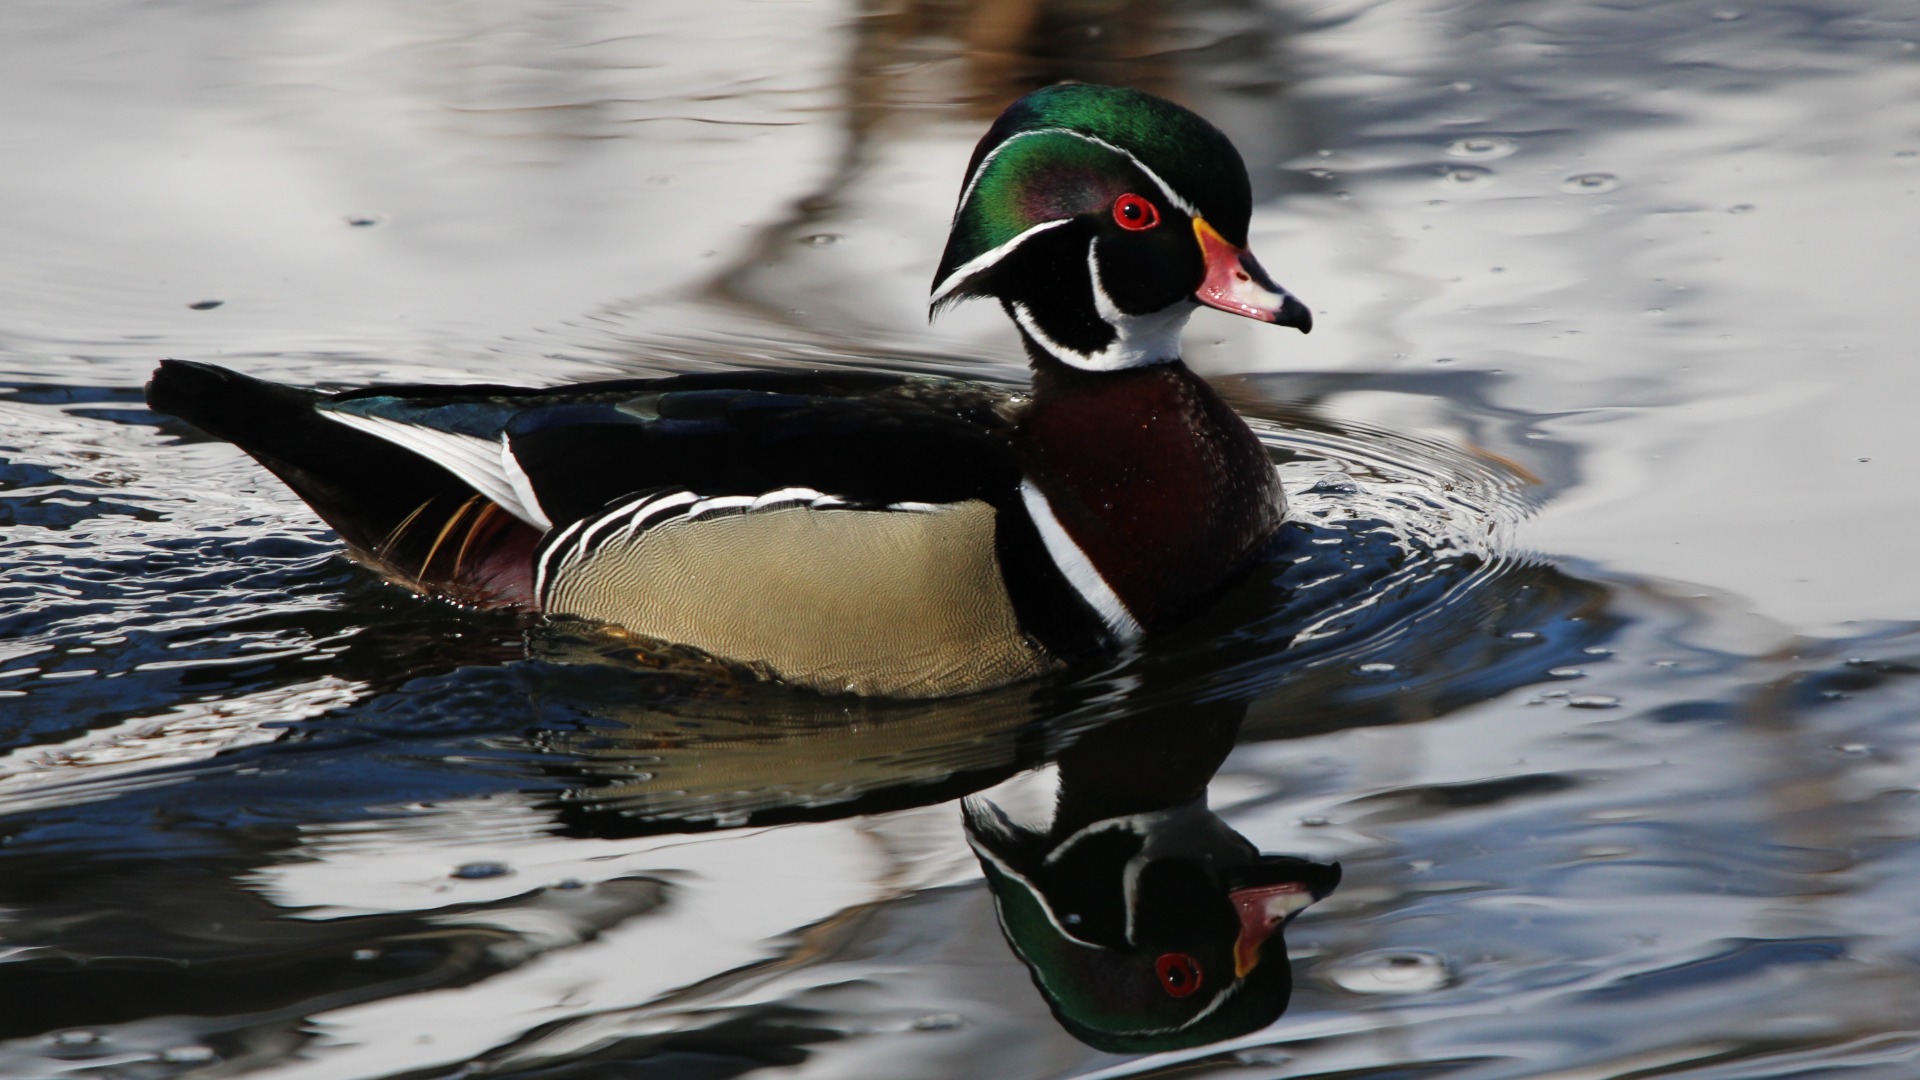
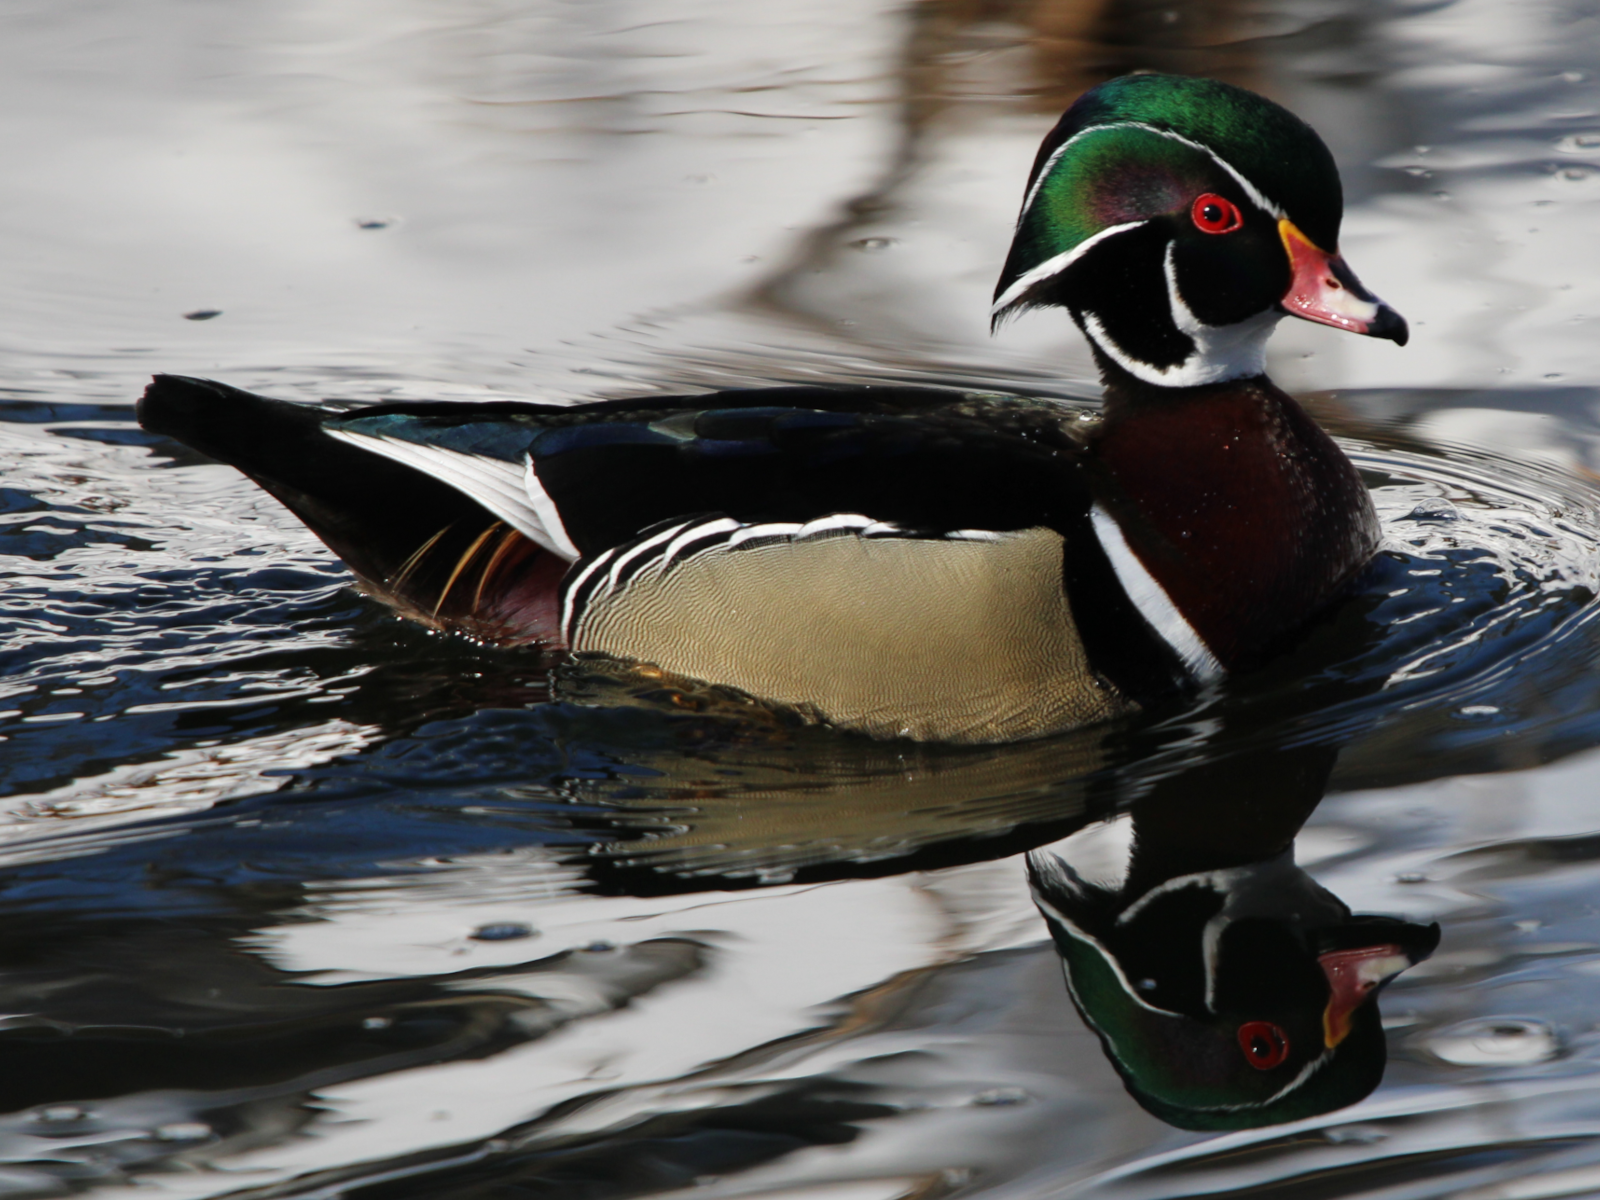
Some changes
- Added Latin names to photos
- Added some new photos
- Removed an old bad photo and reworded descriptions here and there
- Recrop some images
- Updated the bio

diff --git a/src/galleries/image-gallery/ImageGallery.js b/src/galleries/image-gallery/ImageGallery.js
@@ -25,50 +25,71 @@ const categories = ["Birds and nature", "Mathematical visualization", "Other"]
 
 const images = [
     {
+        title: "Orb Weaver",
+        description: <>A yellow garden spider (<i>Argiope aurantia</i>) seen at Rea Farm in Cape May, NJ.</>,
+        filename: "orbweaver.png",
+        date: "27 Sep 2025",
+        category: 0
+    },
+    {
+        title: "Sweat Bee",
+        description: <>A sweat bee (<i>Augochlora</i> spp.) seen at Rea Farm in Cape May, NJ.</>,
+        filename: "sweatbee.png",
+        date: "27 Sep 2025",
+        category: 0
+    },
+    {
+        title: "Skipper",
+        description: <>A Huron skipper (<i>Atalopedes huron</i>) seen in my backyard in northern NJ.</>,
+        filename: "skipper.png",
+        date: "3 Sep 2025",
+        category: 0
+    },
+    {
         title: "Common Buckeye",
-        description: "My first non-bird photo on here. A picture of a common buckeye butterfly I took at the Pole Farm in Mercer County, NJ.",
+        description: <>A common buckeye butterfly (<i>Junonia coenia</i>) seen at the Pole Farm in Mercer County, NJ.</>,
         filename: "buckeye_butterfly.png",
-        date: "24 August 2025",
+        date: "24 Aug 2025",
         category: 0
     },
     {
         title: "Common Yellowthroat",
-        description: "A picture of a perched common yellowthroat, taken at Troy Meadows in Parsippany, NJ.",
+        description: <>A perched common yellowthroat (<i>Geothlypis trichas</i>), seen at Troy Meadows in Parsippany, NJ.</>,
         filename: "yellowthroat.png",
         date: "25 May 2025",
         category: 0
     },
     {
         title: "Forster's Tern",
-        description: "A picture of a Forster's tern in flight, taken at Forsythe NWR near Galloway, NJ.",
+        description:  <>A Forster's tern (<i>Sterna forsteri</i>) in flight, seen at Forsythe NWR near Galloway, NJ.</>,
         filename: "tern.png",
         date: "23 Apr 2025",
         category: 0
     },
     {
         title: "Violet-green Swallow",
-        description: "A picture I took of an oddly cooperative violet-green swallow near La Ventana, Baja California Sur.",
+        description: <>An oddly cooperative violet-green swallow (<i>Tachycineta thalassina</i>) near La Ventana, Baja California Sur.</>,
         filename: "violetgreen.png",
         date: "22 Feb 2025",
         category: 0
     },
     {
         title: "California Quail",
-        description: "A picture I took of a California quail perched on a palm tree in La Ventana, Baja California Sur, Mexico.",
+        description: <>A California quail (<i>Callipepla californica</i>) perched on a palm tree in La Ventana, Baja California Sur, Mexico.</>,
         filename: "califquail.png",
         date: "22 Feb 2025",
         category: 0
     },
     {
         title: "Wood Duck",
-        description: "A rather confused wood duck, seen at the Potash Lake Recreational Area in Oakland, NJ.",
+        description: <>A rather confused wood duck (<i>Aix sponsa</i>), seen at the Potash Lake Recreational Area in Oakland, NJ.</>,
         filename: "woodduck.png",
         date: "26 Jan 2025",
         category: 0
     }, 
     {
         title: "Harlequin Duck",
-        description: "A harlequin duck, photographed at Barnegat Light in NJ.",
+        description: <>A male harlequin duck (<i>Histrionicus histrionicus</i>), photographed at Barnegat Light in NJ.</>,
         filename: "harlequinduck.png",
         date: "2 Jan 2025",
         category: 0
@@ -102,7 +123,7 @@ const images = [
     },
     {
         title: "Vermillion Flycatcher",
-        description: "A vermillion flycatcher, photographed during a vacation to the Quindio region of Colombia.",
+        description: <>A vermillion flycatcher (<i>Pyrocephalus obscurus</i>), photographed during a vacation to the Quindio region of Colombia.</>,
         filename: "vermillionflycatcher.png",
         date: "1 Sep 2024",
         category: 0
@@ -116,7 +137,7 @@ const images = [
     },
     {
         title: "Tree Swallow",
-        description: "A tree swallow on a branch, photographed at the Pole Farm in Mercer County, NJ.",
+        description: <>A tree swallow (<i>Tachycineta bicolor</i>) on a branch, photographed at the Pole Farm in Mercer County, NJ.</>,
         filename: "treeswallow.png",
         date: "30 Jun 2024",
         category: 0
@@ -137,42 +158,42 @@ const images = [
     },
     {
         title: "Chuck-will's-widow",
-        description: "A female chuck-will's-widow sitting on her nest. Photographed at Fort De Soto, FL.",
+        description: <>A female chuck-will's-widow (<i>Antrostomus caroliniensis</i>) sitting on her nest. Photographed at Fort De Soto, FL.</>,
         filename: "chuckwillswidow.png",
         date: "27 Apr 2024",
         category: 0
     },
     {
         title: "Purple Gallinule",
-        description: "A purple gallinule, photographed in Sarasota, FL while on vacation.",
+        description: <>A purple gallinule (<i>Porphyrio martinica</i>), photographed in Sarasota, FL while on vacation.</>,
         filename: "purplegallinule.png",
         date: "25 Apr 2024",
         category: 0
     },
     {
         title: "Oystercatcher",
-        description: "An American oystercatcher in front of a wave. I took this picture at Sandy Hook NWR in New Jersey.",
+        description: <>An American oystercatcher (<i>Haematopus palliatus</i>) in front of a wave, seen at Sandy Hook NWR in New Jersey.</>,
         filename: "oystercatcher.png",
         date: "21 Apr 2024",
         category: 0
     },
     {
         title: "Monk Parakeets",
-        description: <>One of the many nests of feral monk parakeets who have made their home in Edgewater, NJ.</>,
+        description: <>One of the many nests of feral monk parakeets (<i>Myiopsitta monachus</i>) who have made their home in Edgewater, NJ.</>,
         filename: "parakeets.png",
         date: "9 Apr 2024",
         category: 0
     },
     {
         title: "Osprey",
-        description: <>An osprey in flight over the pond at Garret Mountain Park near Patterson, NJ.</>,
+        description: <>An osprey (<i>Pandion haliaetus</i>) in flight over the pond at Garret Mountain Park near Patterson, NJ.</>,
         filename: "osprey.png",
         date: "7 Apr 2024",
         category: 0
     },
     {
         title: "Brown Creeper",
-        description: <>A brown creeper climbing a tree, sighted near Garret Mountain Park near Patterson, NJ.</>,
+        description: <>A brown creeper (<i>Certhia americana</i>) climbing a tree, sighted near Garret Mountain Park near Patterson, NJ.</>,
         filename: "creeper.png",
         date: "7 Apr 2024",
         category: 0
@@ -236,21 +257,21 @@ const images = [
     },
     {
         title: "Sanderling",
-        description: "A picture I took of a sanderling at Barnegat Light State Park in New Jersey.",
+        description: <>A sanderling (<i>Calidris alba</i>) at Barnegat Light State Park in New Jersey.</>,
         filename: "sanderling.png",
         date: "2 Feb 2024",
         category: 0
     },
     {
         title: "Red-breasted Merganser",
-        description: "A picture I took of a red-breasted merganser male showing his crest at Barnegat Light State Park in New Jersey.",
+        description: <>A red-breasted merganser (<i>Mergus serrator</i>) male showing his crest at Barnegat Light State Park in New Jersey.</>,
         filename: "merganser.png",
         date: "2 Feb 2024",
         category: 0
     },
     {
         title: "Long-tailed Duck Male",
-        description: "A picture of one of my favorite sea ducks: a long-tailed duck male, taken by me at Barnegat Light State Park in New Jersey.",
+        description: <>One of my favorite sea ducks: a long-tailed duck (<i>Clangula hyemalis</i>) male, seen at Barnegat Light State Park in New Jersey.</>,
         filename: "longtail2.png",
         date: "2 Feb 2024",
         category: 0
@@ -296,13 +317,6 @@ const images = [
         filename: "newtonfractal1.png",
         date: "8 Jan 2024",
         category: 1
-    },
-    {
-        title: "Loon in Flight",
-        description: "A picture of a red-throated loon starting to fly. I took this picture at Sandy Hook NWR in New Jersey.",
-        filename: "redthroatedloon.png",
-        date: "31 Dec 2023",
-        category: 0
     },
     {
         title: "Islamic-style Hyperbolic Tiling",
@@ -404,7 +418,7 @@ const images = [
     },
     {
         title: "Coal Dumper",
-        description: "A picture I took of the abandoned McMyler coal dumper in Port Reading, NJ.",
+        description: "The abandoned McMyler coal dumper in Port Reading, NJ.",
         filename: "coaldumper.jpg",
         date: "30 Aug 2023",
         category: 2
@@ -425,7 +439,7 @@ const images = [
     },
     {
         title: "Burrowing Owl",
-        description: "I took this picture of a burrowing owl (Athene cunicularia) at a baseball field in Cape Coral, FL.",
+        description: <>I took this picture of a burrowing owl (<i>Athene cunicularia</i>) at a baseball field in Cape Coral, FL.</>,
         filename: "burrowingowl.jpg",
         date: "22 Nov 2021",
         category: 0
@@ -470,6 +484,7 @@ function ImageGallery() {
         // Then sort images into those categories
         let imgData, i = 0;
         for (let img of images) {
+            console.log(img);
             let localPath = require("./pics/" + img.filename);
             imgData = {...img, localPath, idx: i};
             data[img.category].push(imgData);

diff --git a/src/main-pages/about/AboutPage.js b/src/main-pages/about/AboutPage.js
@@ -25,7 +25,7 @@ function AboutPage() {
                 <hr />
 
                 <p>
-                    Hello. I&apos;m Zenzicubic, and I&apos;m a VTuber. I make YouTube videos about my passions: mainly practical chemistry and math (with a focus on aesthetically pleasing concepts, especially in group theory, dynamical systems, fractals, and geometry), but also whatever happens to interest me at a given moment. I&apos;ve been on YouTube since 2020, and I&apos;ve been a VTuber since January 2022. I film experiments in my home chemistry lab, and make animated math videos and explainers &#224; la 3Blue1Brown.
+                    Hello. I&apos;m Zenzicubic, and I make YouTube videos about my passions: mainly practical chemistry and math (with a focus on aesthetically pleasing concepts, especially in group theory, dynamical systems, fractals, and geometry), but also whatever happens to interest me at a given moment. I&apos;ve been on YouTube since 2020, and I have had a VTuber avatar in some form since January 2022. I film experiments in my home chemistry lab, and make animated math videos and explainers &#224; la 3Blue1Brown.
                     I&apos;ve also made <a
                         href="https://youtu.be/MA5kXfjLY7Y" 
                         target="_blank" rel="noopener noreferrer">

diff --git a/src/galleries/image-gallery/img-gallery.css b/src/galleries/image-gallery/img-gallery.css
@@ -41,6 +41,7 @@
     visibility: hidden;
     flex-direction: row;
     align-items: center;
+    box-sizing: border-box;
     justify-content: center;
 
     top: 0;
@@ -49,6 +50,7 @@
     width: 100vw;
     height: 100vh;
     z-index: 1000;
+    padding: var(--small-spacing);
     background-color: var(--dark-col-2);
     transition: opacity var(--transition-duration);
 }
